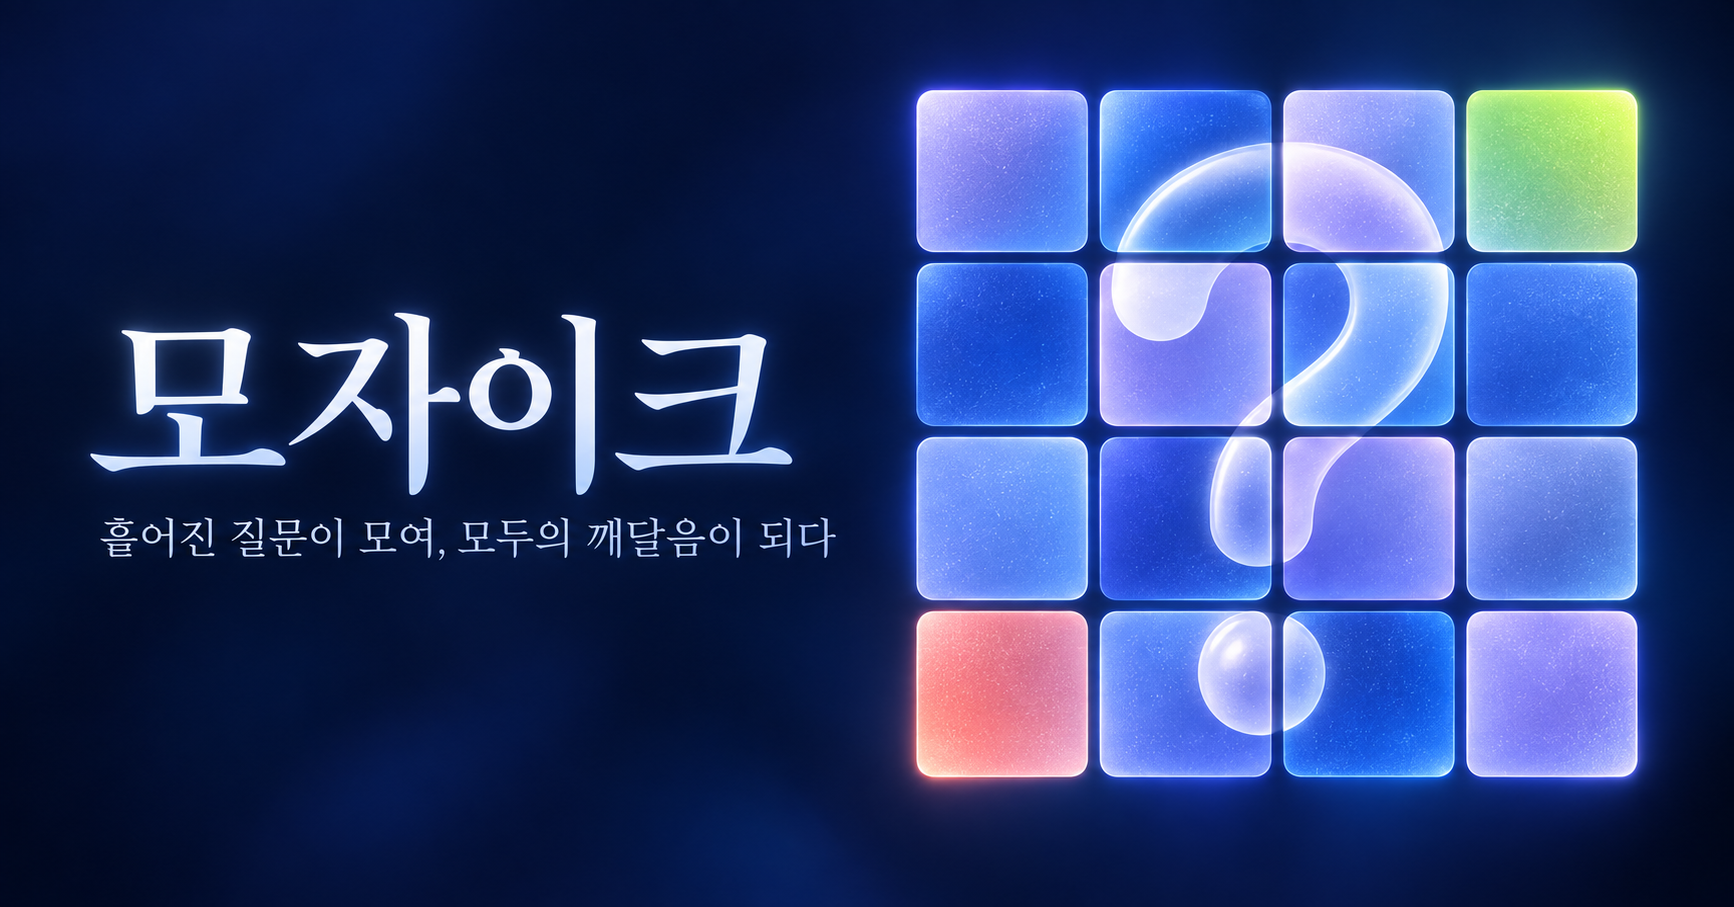
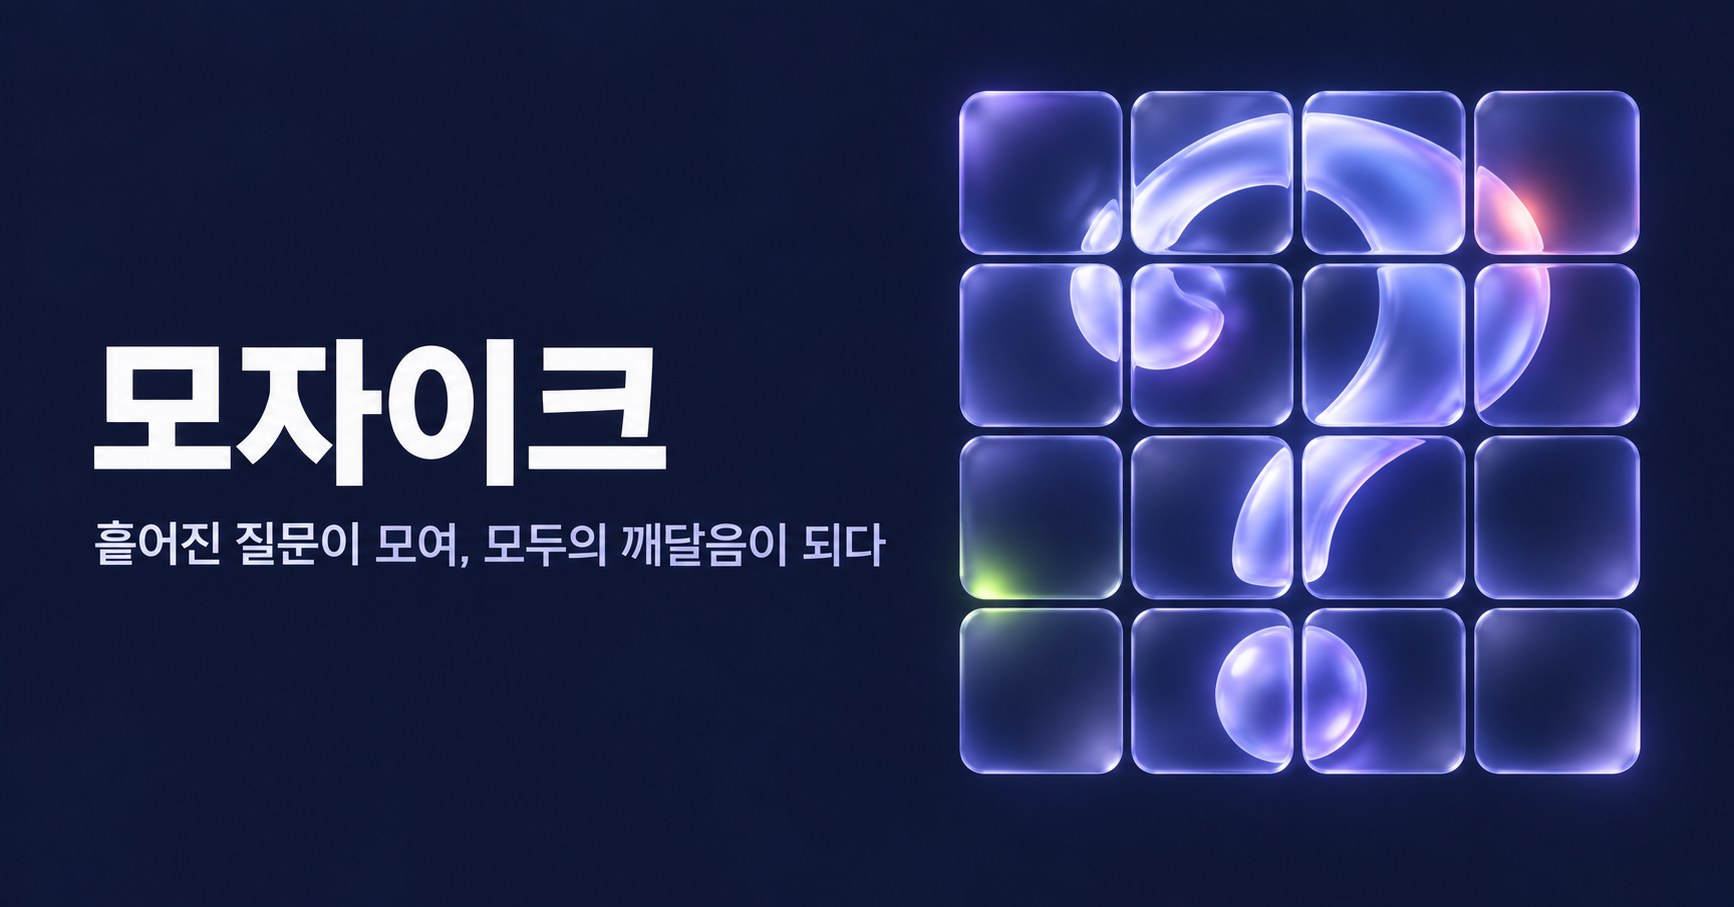
Make Mosaic question mark flow like water

diff --git a/components/qsignal/MosaicMark.tsx b/components/qsignal/MosaicMark.tsx
@@ -44,14 +44,13 @@ export function MosaicMark() {
         filter="url(#mosaic-mark-question-glow)"
       >
         <path
-          d="M16.7 17.2C16.7 12.1 20.1 9.4 24.7 9.4c4.9 0 8.5 2.8 8.5 7.2 0 3.4-1.9 5.2-4.6 7.1-3.1 2.1-4.5 4.1-4.5 7.4"
-          fill="none"
-          stroke="url(#mosaic-mark-question-fill)"
-          strokeLinecap="round"
-          strokeLinejoin="round"
-          strokeWidth="5.5"
+          d="M14.9 16.45C14.9 10.98 19.14 8.05 24.25 8.05c5.55 0 9.78 3.08 9.78 8.03 0 4.11-2.25 6.32-5.38 8.36-2.86 1.86-4.17 4.12-4.17 7.31 0 1.58-1.18 2.71-2.7 2.71s-2.62-1.22-2.62-2.77c0-4.56 1.85-7.85 5.82-10.46 2.38-1.56 3.6-2.9 3.6-4.89 0-2.34-1.94-3.98-4.62-3.98-2.94 0-4.82 1.83-4.82 4.36 0 1.72-.86 2.84-2.23 2.84-1.25 0-2.01-1.11-2.01-2.81Z"
+          fill="url(#mosaic-mark-question-fill)"
         />
-        <circle cx="24.1" cy="37.1" fill="url(#mosaic-mark-question-fill)" r="3.15" />
+        <path
+          d="M21.55 34.8c1.78 0 3.15 1.43 3.03 3.14-.12 1.78-1.51 3.16-3.22 3.16-1.66 0-2.87-1.29-2.73-2.99.15-1.78 1.14-3.31 2.92-3.31Z"
+          fill="url(#mosaic-mark-question-fill)"
+        />
       </g>
     </svg>
   );
